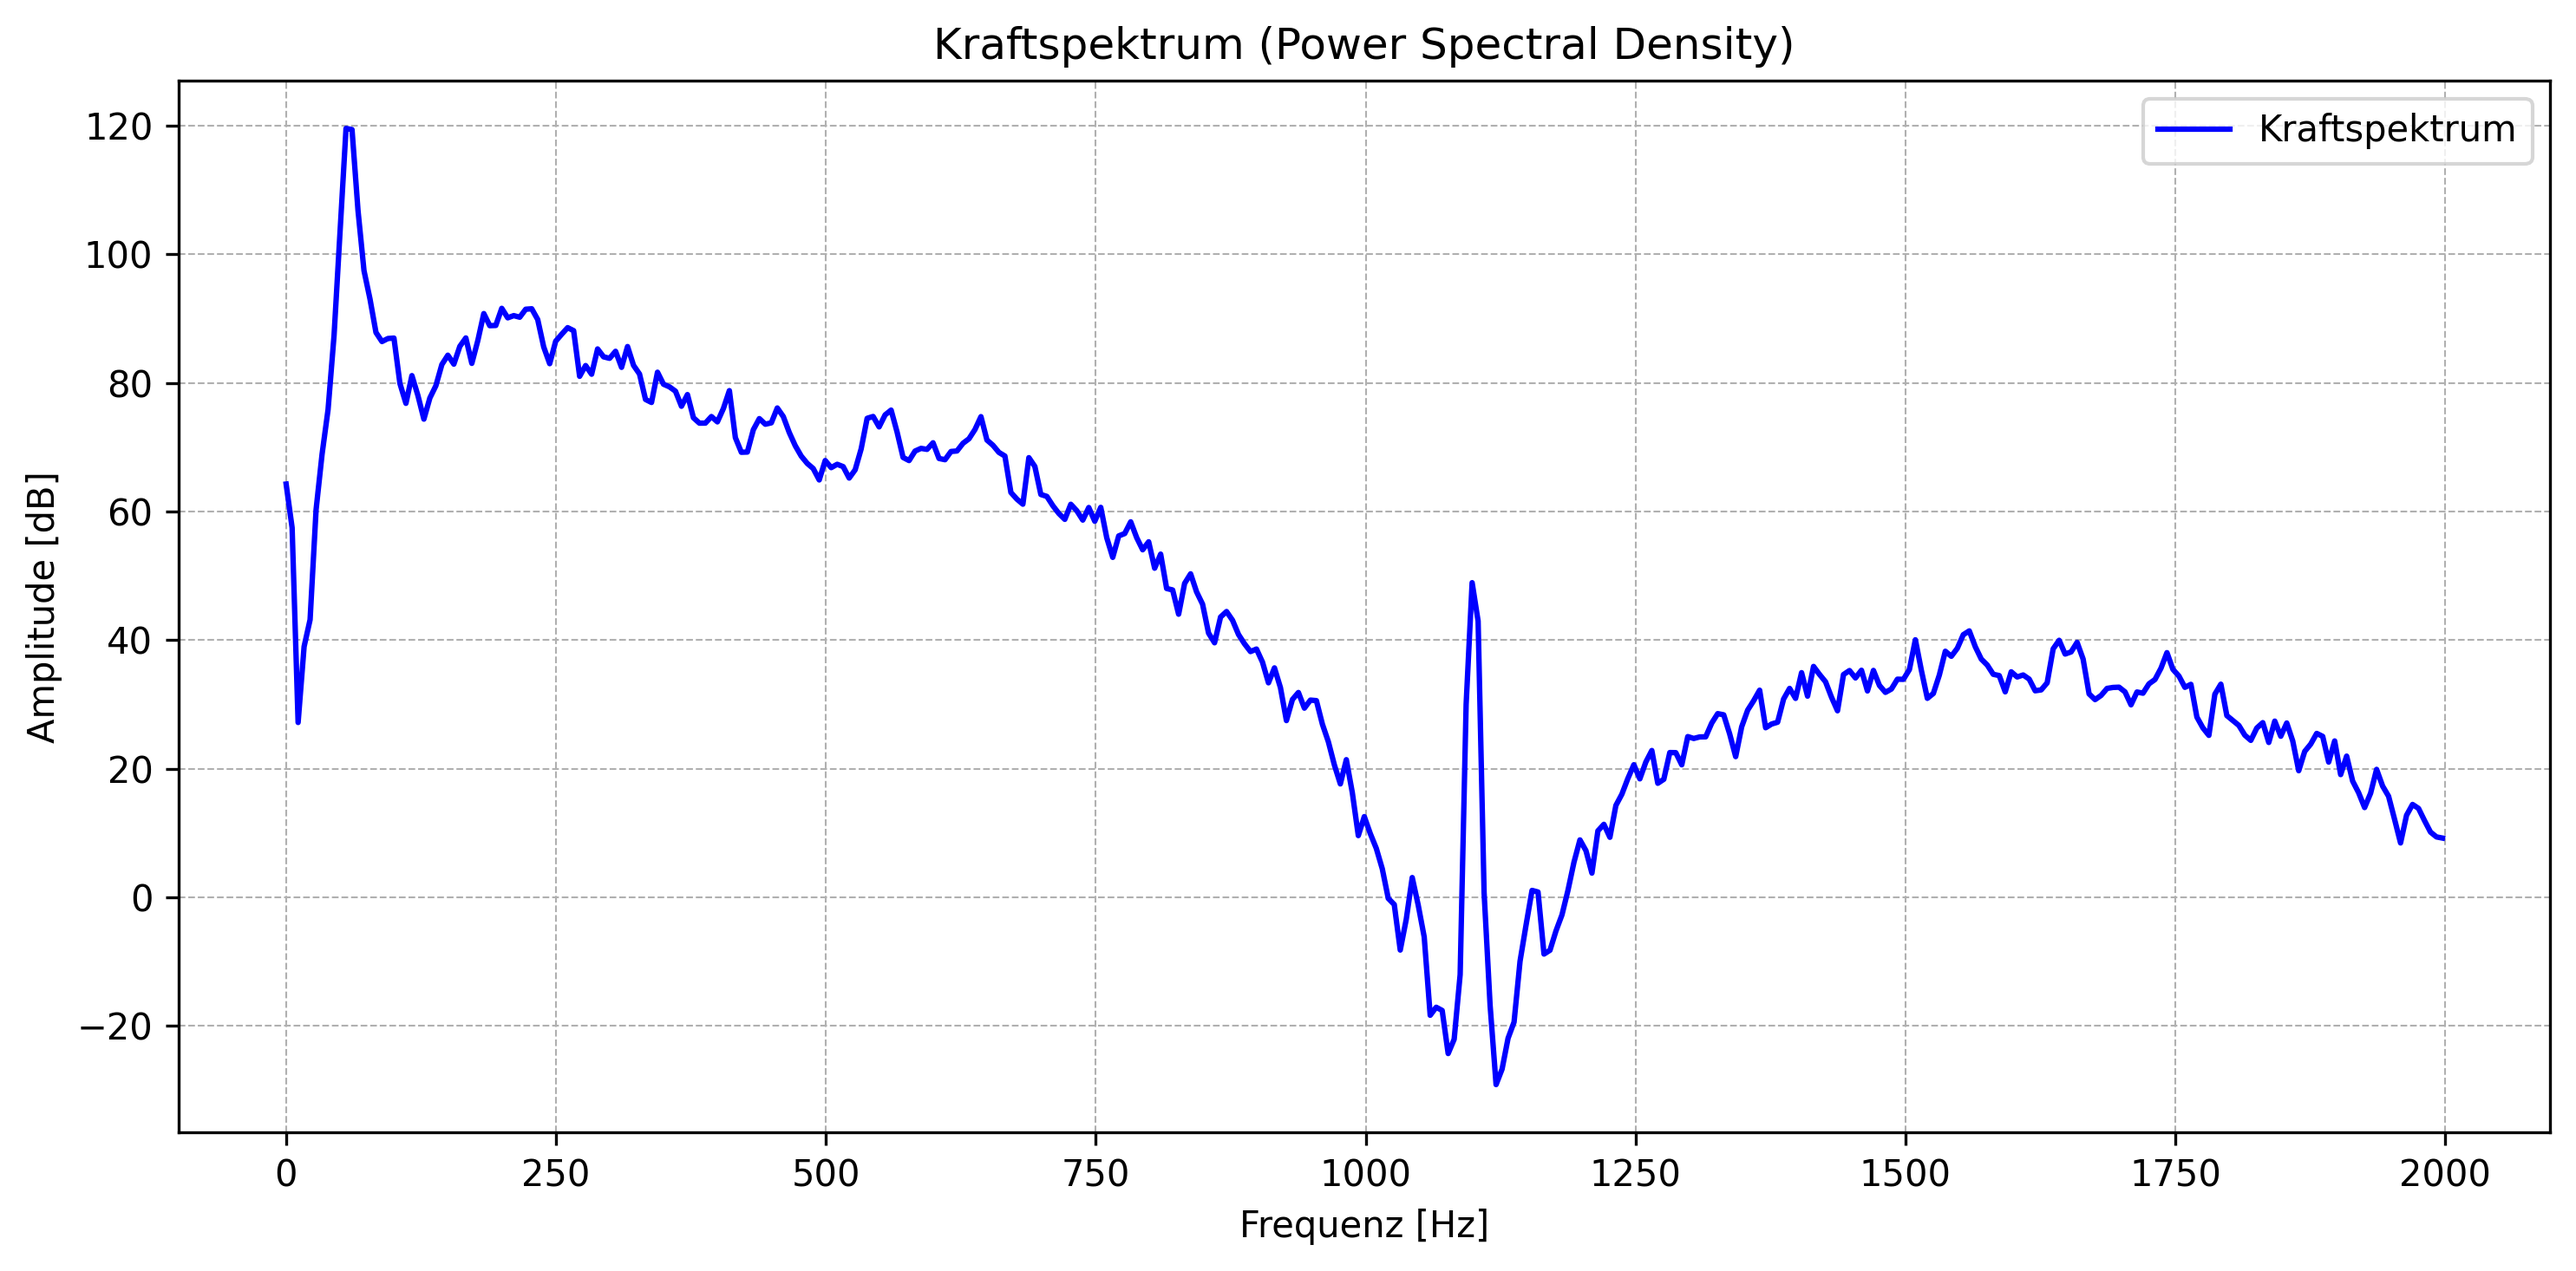
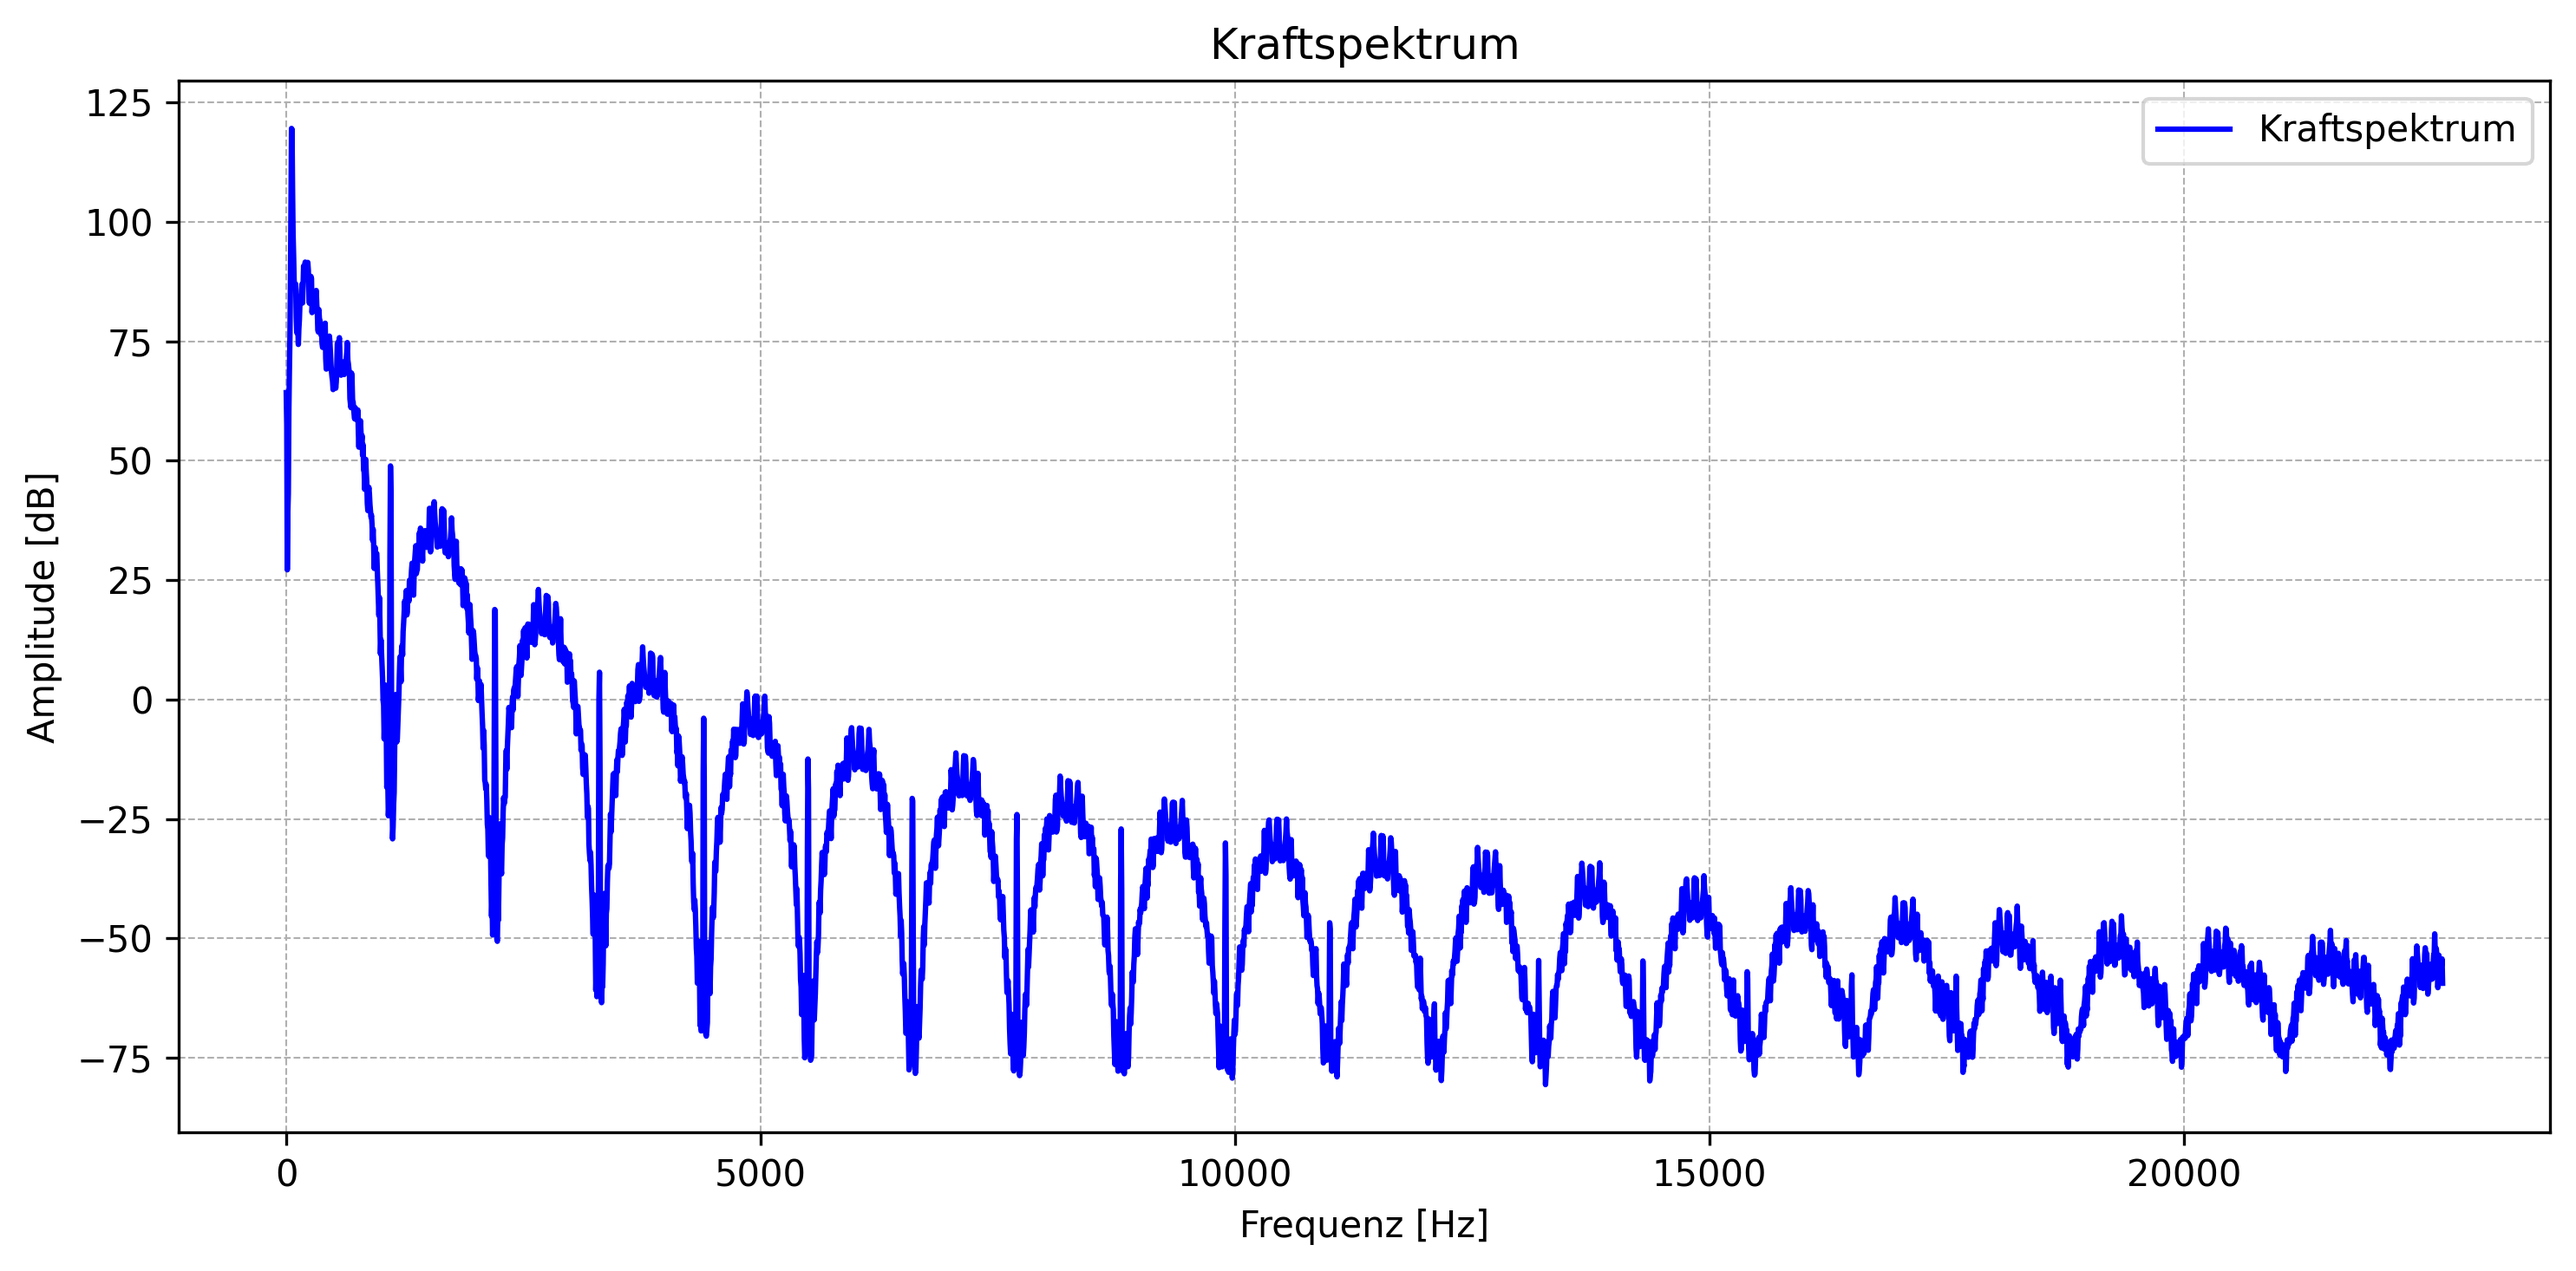
starting cleanup

diff --git a/Moving_Force.py b/Moving_Force.py
@@ -20,80 +20,82 @@ from rolland.excitation             import MovingForce
 from rolland import(
     PMLRailDampVertic,
     DiscretizationEBBVerticConst,
-    DeflectionEBBVertic)
-from rolland.postprocessing import(
-    Response as resp,
-    TDR)
-import numpy as np
-import matplotlib.pyplot as plt
+    DeflectionEBBVertic
+)
+
+# Import external libraries
+from scipy.fft              import fft, fftfreq
+from scipy.signal           import welch
+from scipy.signal           import csd
+from pathlib                import Path
+import numpy                as np
+import matplotlib.pyplot    as plt
+import matplotlib.animation as animation
 import os
 import csv
 import math
-from scipy.fft  import fft, fftfreq
-from scipy.signal import welch
-from scipy.signal import csd
-from pathlib    import Path
-import matplotlib.animation as animation
 import pickle
 
 
 # =============================================================================
-# 0. TESTING PARAMETERS
+# 0. INITIALIZATION
 # =============================================================================
-store_deflection          = True    # TODO: this is not implemented yet!
+
 starting_position         = 80.0    # Starting position [m]
-num_mount                 = 600     # Number of discrete mounting positions
+num_mount                 = 600     # Number of discrete mounting positions [-]
 distance                  = 0.6     # Distance between sleepers [m]
-l_bound                   = 40.0    # Width of boundary domain
+l_bound                   = 40.0    # Width of boundary domain [m]
+req_simt                  = 2       # Required simulation time [s]
 dt                        = 2.2e-5  # Time step [s]
+ramp_fraction             = 0.1     # Fraction of total time for ramp up [-] NOTE: affects velocity and force
 velocities                = [60]    # Velocities to simulate [m/s] NOTE: always give a list, even for a single velocity
-ramp_fraction             = 0.1     # Fraction of total time for ramp up (affects velocity and force)
 static_force              = 65000.0 # Static force amplitude [N]
-freq_limit                = 2000
+freq_limit                = 2000    # Frequency limit for plots [Hz]
+cut_initial               = 30000   # Number of initial time steps to cut from results TODO: base on ramp_fraction and req_simt
+use_precalculated_results = True
+use_contact_model         = True
+store_deflection          = True    # TODO: implement option to only store deflection at contact points
 
-req_simt                    = 2       # Required simulation time [s]
-cut_initial                 = 30000   # Number of initial time steps to cut
-use_precalculated_results   = True
-use_contact_model           = True
-
-
-
-# Output directory
-output_dir = Path('mobility_plots')
-output_dir.mkdir(exist_ok=True)
 # TODO: add some prints as progress indicators
 
-# Create output directory for frames
-frames_dir = output_dir / 'frames'
 
-# Clear the frames directory if it already exists
+# Output directory for plots
+output_dir = Path('mobility_plots')
+output_dir.mkdir(exist_ok=True)
+
+# Output directory for deflection frames
+frames_dir = output_dir / 'frames'
 if frames_dir.exists():
     for file in frames_dir.glob('*'):
-        file.unlink()  # Delete each file in the directory
+        file.unlink()
 else:
-    frames_dir.mkdir(exist_ok=True)  # Create the directory if it doesn't exist
+    frames_dir.mkdir(exist_ok=True)
+
 
 # =============================================================================
 # 1. TRACK DEFINITION
 # =============================================================================
-# Create a ballasted single rail track model with periodic supports
+
 track = SimplePeriodicBallastedSingleRailTrack(
-    rail    = NORDBORG, # rail profile with parameters according to Nordborg paper
-    # rail    = UIC60,   # UIC60 rail profile
-    pad     = DiscrPad(
-                sp = [300e6, 0],    # Pad Stiffness [N/m]
-                dp = [18000, 0],    # Pad Damping [Ns/m]
-                # eta_p = 0.15      # Pad loss factor [-]
+    rail = NORDBORG,        # rail profile with parameters according to Nordborg paper
+    pad = DiscrPad(
+        sp = [300e6, 0],    # Pad Stiffness [N/m]
+        dp = [18000, 0],    # Pad Damping [Ns/m]
+        # eta_p = 0.15      # Pad loss factor [-]
     ),
-    sleeper = Sleeper(ms=150),      # Sleeper mass [kg]
+    sleeper = Sleeper(
+        ms = 150            # Sleeper mass [kg]
+    ),
     ballast = Ballast(
-                sb = [150e6, 0],    # Ballast stiffness [N/m]
-                db = [48000, 0],    # Ballast damping [Ns/m]
-                # eta_b = 0.4       # Ballast loss factor [-]
+        sb = [150e6, 0],    # Ballast stiffness [N/m]
+        db = [48000, 0],    # Ballast damping [Ns/m]
+        # eta_b = 0.4       # Ballast loss factor [-]
     ),
-    num_mount   = num_mount,        # Number of discrete mounting positions
-    distance    = distance          # Distance between sleepers [m]
+    num_mount = num_mount,  # Number of discrete mounting positions
+    distance  = distance    # Distance between sleepers [m]
 )
+
+
 ppf = math.pi/(2*distance**2) * math.sqrt(track.rail.E*track.rail.Iyr / track.rail.mr) # first pinned-pinned frequency
 print(f"First pinned-pinned frequency: {ppf:.2f} Hz")
 
@@ -146,8 +148,8 @@ else:
             bound       = boundary
         )
 
-        excitation.generate_roughness(discretization)
-        # excitation.generate_harmonic_roughness(discretization, frequency=1/0.046)  # add harmonic roughness at 100 Hz
+        # excitation.generate_roughness(discretization)
+        excitation.generate_harmonic_roughness(discretization, frequency=1/0.046)  # add harmonic roughness at 100 Hz
 
         # Solve for deflection
         deflection_results = DeflectionEBBVertic(
@@ -224,10 +226,11 @@ for i, deflection in enumerate(deflection_results.contact_point_deflection):
     # 7. PLOT FORCE SPECTRUM
     # =============================================================================
     plt.figure(figsize=(10, 5))
-    plt.plot(freqs[mask], 20 * np.log10(np.abs(Pff[mask])), color='blue', linewidth=1.5, label='Kraftspektrum')
+    plt.plot(freqs, 20 * np.log10(np.abs(Pff)), color='blue', linewidth=1.5, label='Kraftspektrum')
+    # plt.plot(freqs[mask], 20 * np.log10(np.abs(Pff[mask])), color='blue', linewidth=1.5, label='Kraftspektrum')
     plt.xlabel('Frequenz [Hz]')
     plt.ylabel('Amplitude [dB]')
-    plt.title('Kraftspektrum (Power Spectral Density)')
+    plt.title('Kraftspektrum')
     plt.grid(True, which='both', linestyle='--', linewidth=0.5)
     plt.legend()
     plt.tight_layout()
@@ -239,11 +242,11 @@ for i, deflection in enumerate(deflection_results.contact_point_deflection):
     # =============================================================================
     time_array = np.linspace(0, len(deflection_results.force) * dt, len(deflection_results.force))  # Time in seconds
     plt.figure(figsize=(10, 5))
-    plt.plot(time_array, deflection_results.force, color='green', linewidth=1.5, label='Kraft im Zeitbereich')
+    plt.plot(time_array, deflection_results.force, color='green', linewidth=1.5, label='Kraft')
     plt.xlabel('Zeit [s]')
     plt.ylabel('Kraft [N]')
-    plt.xlim(1.75, 1.85)  # Limit x-axis to the requested simulation time
-    plt.title('Kraftverlauf im Zeitbereich')
+    plt.xlim(0, req_simt)  # Limit x-axis to the requested simulation time
+    plt.title('Kraftverlauf')
     plt.grid(True, which='both', linestyle='--', linewidth=0.5)
     plt.legend()
     plt.tight_layout()
